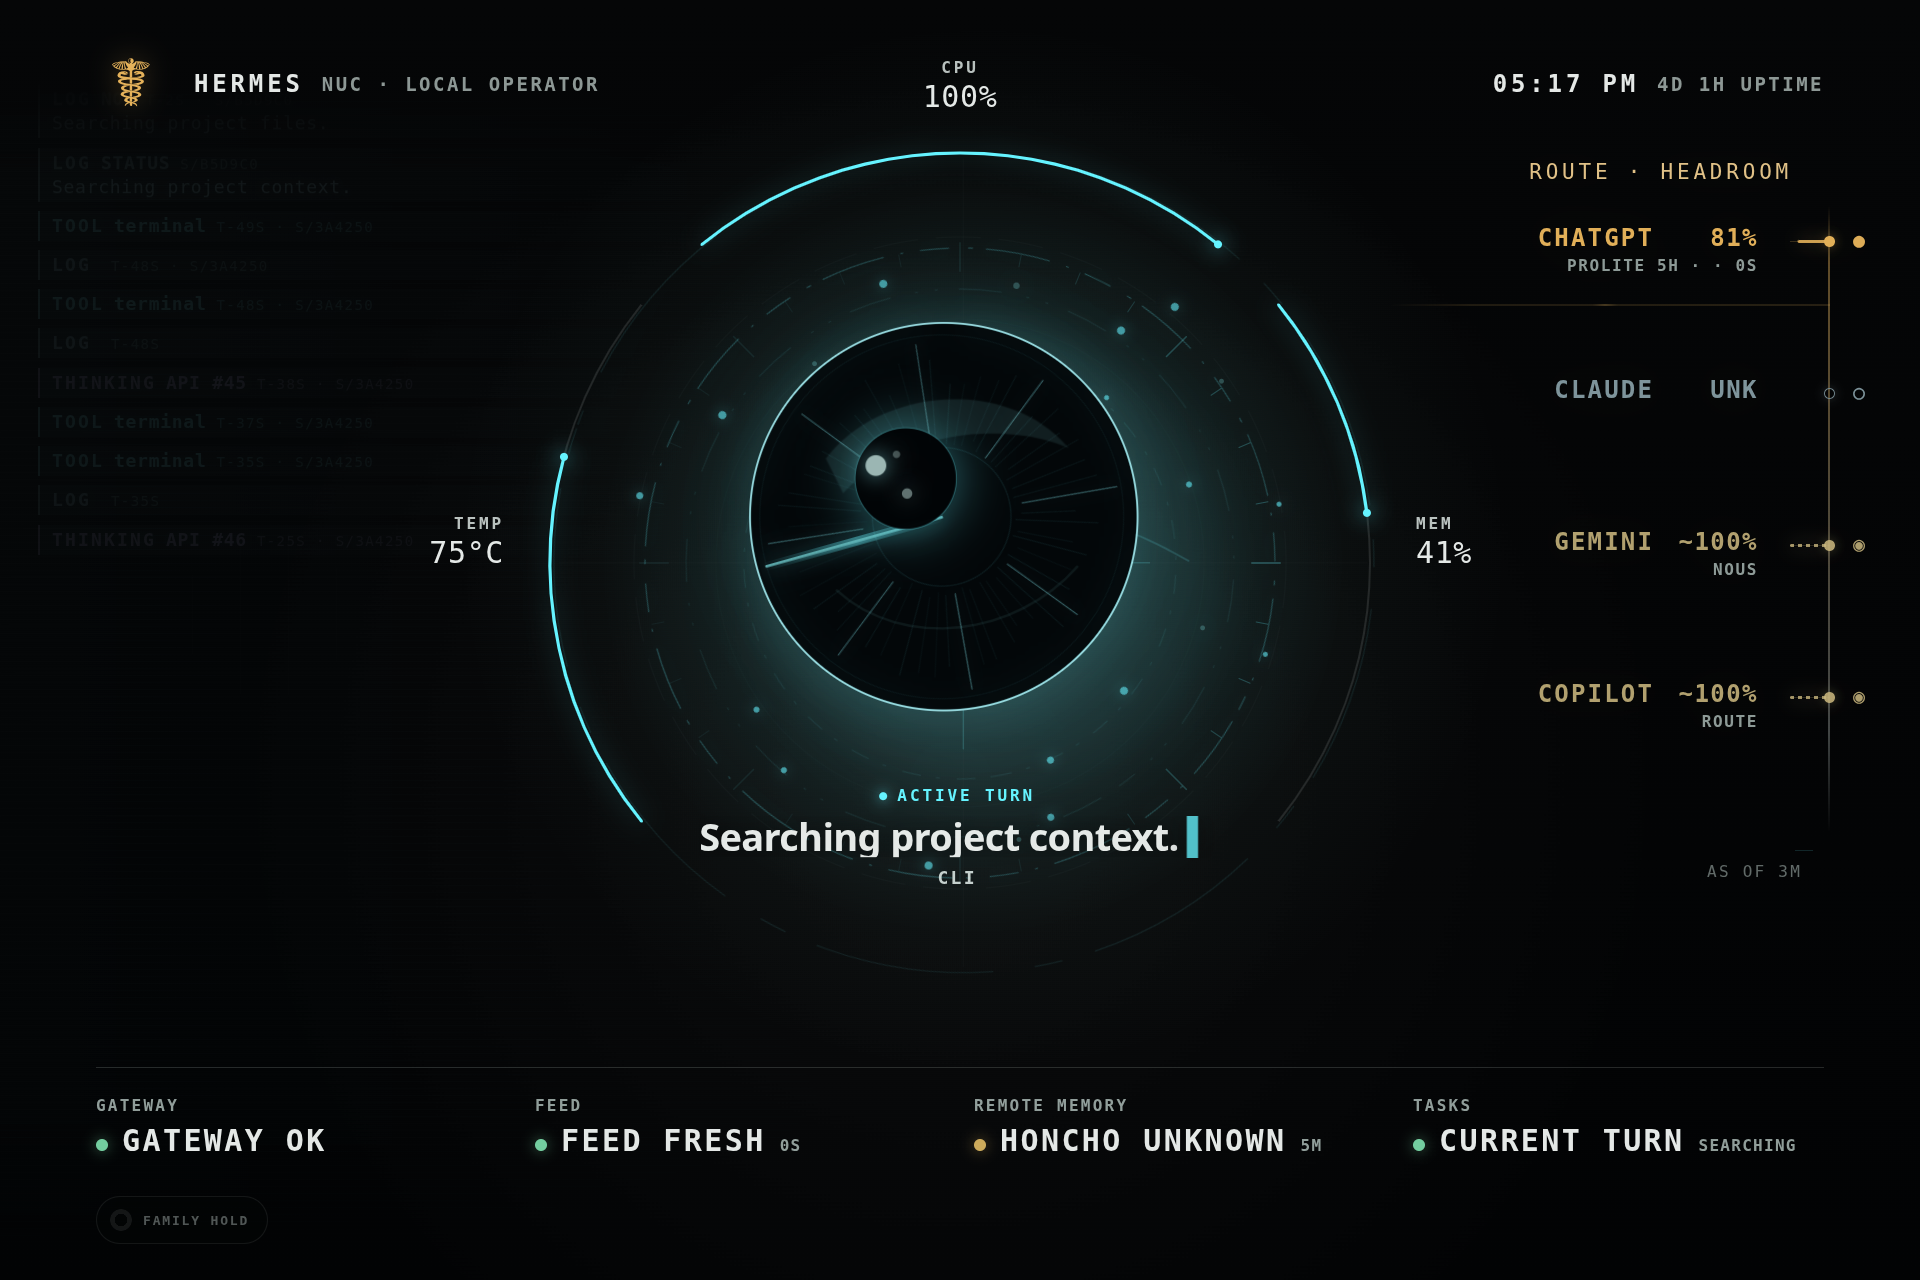
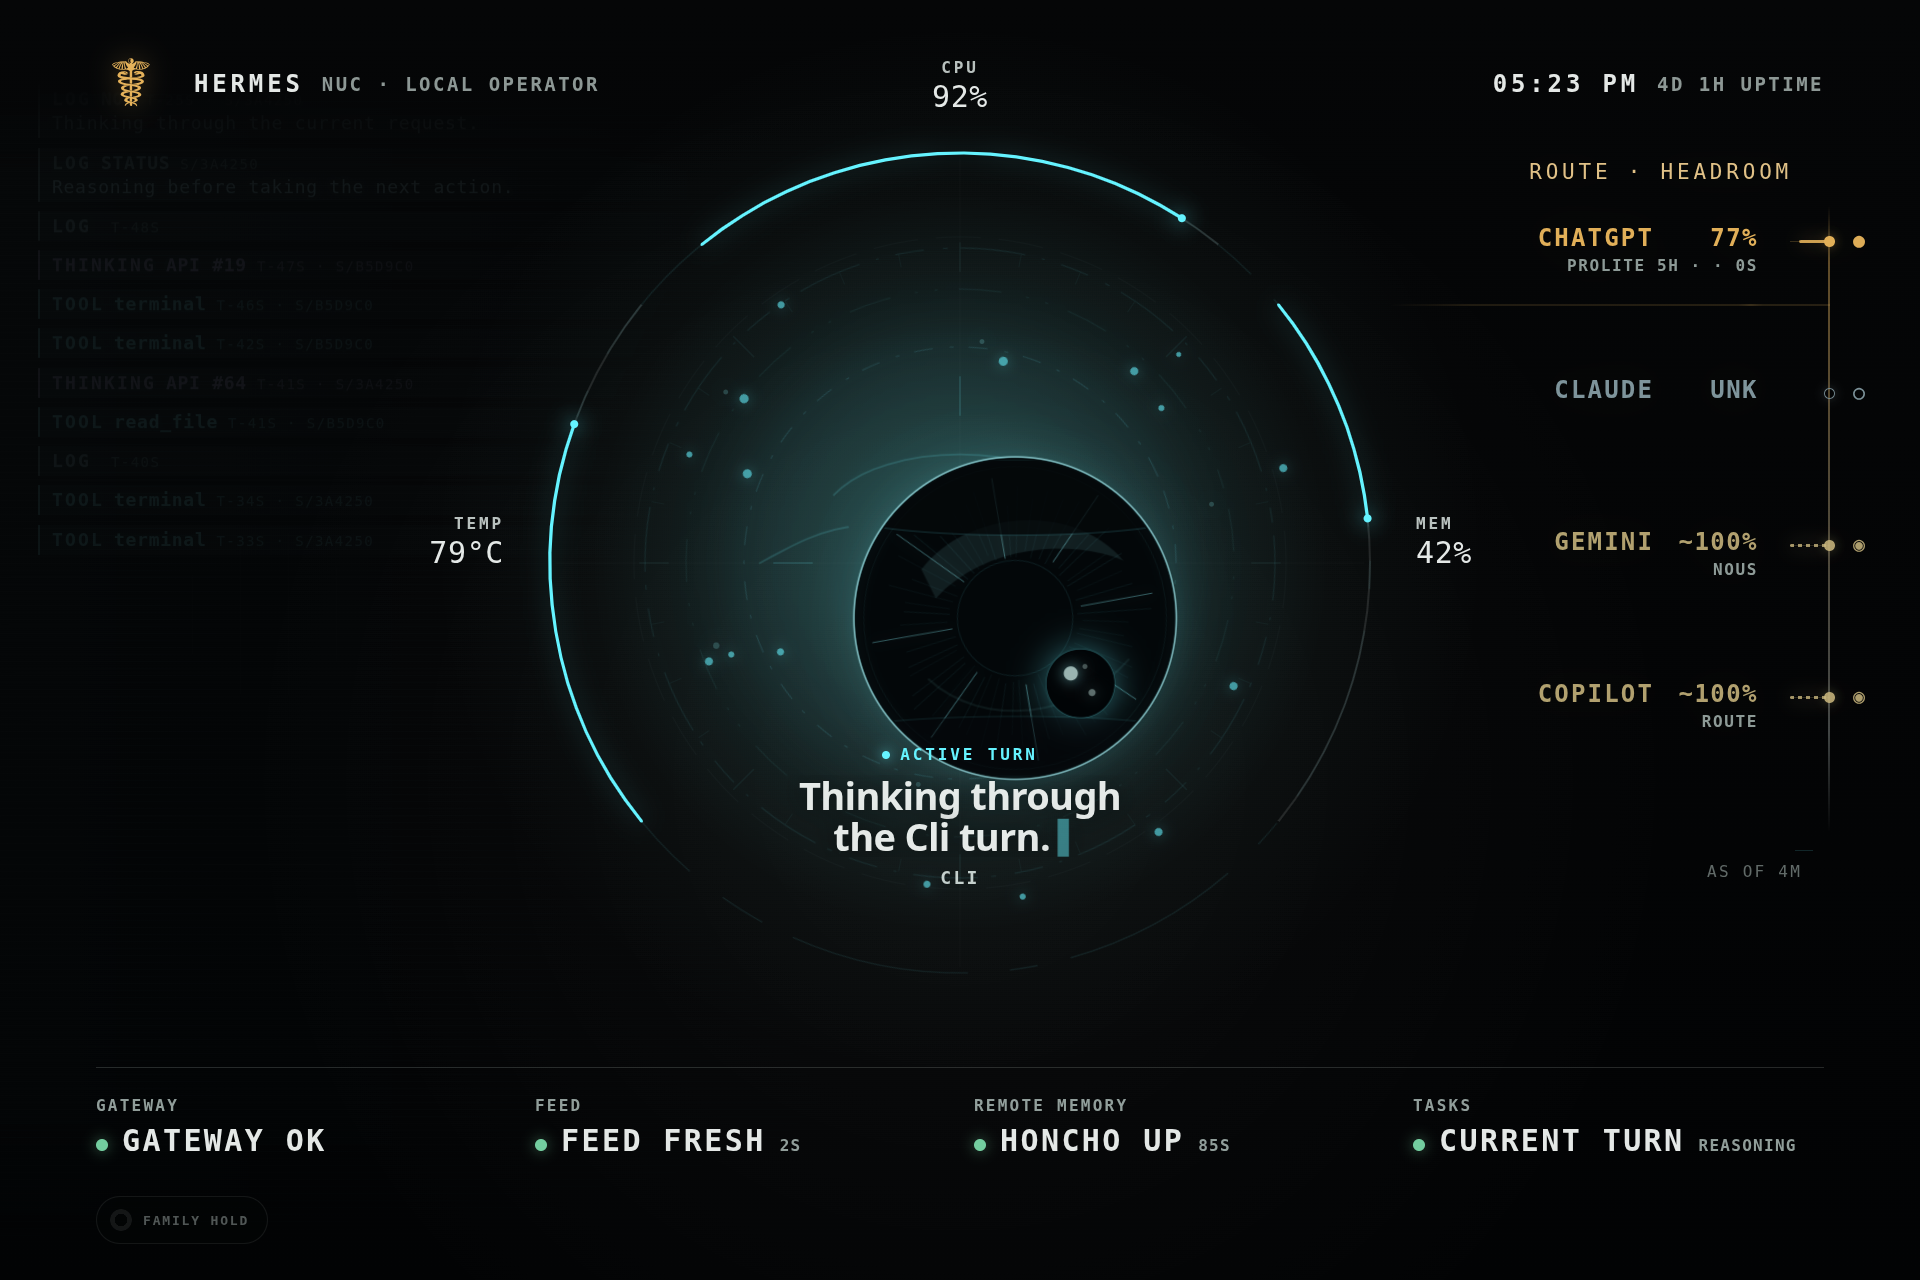
[verified] fix Honcho remote memory status

Changed region(s): [[0.375, 0.25, 0.625, 0.6875], [0.5938, 0.875, 0.6875, 0.9062], [0.4688, 0.0625, 0.5312, 0.0938]]

diff --git a/scripts/hermes_display_server.py b/scripts/hermes_display_server.py
@@ -442,13 +442,35 @@ def load_remote_memory_status() -> dict:
         age_seconds = None
 
     raw_state = str(raw.get("last") or "unknown").lower()
+    raw_metric = raw.get("last_metric")
+    metric: dict = raw_metric if isinstance(raw_metric, dict) else {}
+    api_health_ok = metric.get("api_health_ok")
+    raw_containers = metric.get("containers")
+    containers: dict = raw_containers if isinstance(raw_containers, dict) else {}
+    core_containers_up = None
+    if containers:
+        core_containers_up = all(
+            "up" in str(containers.get(name, "")).lower()
+            for name in (
+                "honcho-selfhost-api-1",
+                "honcho-selfhost-database-1",
+                "honcho-selfhost-redis-1",
+            )
+        )
     if age_seconds is None or age_seconds > 20 * 60:
         state = "stale"
         status = "STALE"
+    elif api_health_ok is True and core_containers_up is not False:
+        # The watchdog's top-level `last` can be "degraded" for non-outage
+        # warnings, for example deriver warning volume. The display's remote
+        # memory cell is meant to answer whether Honcho memory is reachable, so
+        # prefer the concrete API/container health fields when present.
+        state = "ok"
+        status = "UP"
     elif raw_state == "up":
         state = "ok"
         status = "UP"
-    elif raw_state == "down":
+    elif raw_state == "down" or api_health_ok is False:
         state = "down"
         status = "DOWN"
     else:
@@ -464,9 +486,9 @@ def load_remote_memory_status() -> dict:
         "state": state,
         "status": status,
         "age_seconds": age_seconds,
-        "api": safe_field(raw.get("api")),
-        "service": safe_field(raw.get("service")),
-        "app": safe_field(raw.get("app")),
+        "api": safe_field(raw.get("api") or ("health ok" if api_health_ok is True else "")),
+        "service": safe_field(raw.get("service") or ("containers ok" if core_containers_up is True else "")),
+        "app": safe_field(raw.get("app") or "; ".join(str(w) for w in (raw.get("warnings") or [])[:2])),
     }
 
 

diff --git a/tests/python/test_server_longevity.py b/tests/python/test_server_longevity.py
@@ -65,3 +65,41 @@ def test_reserve_entertainment_budget_is_bounded(monkeypatch, tmp_path: Path) ->
 
     usage = json.loads(usage_path.read_text(encoding="utf-8"))
     assert usage["line_requests"] == 2
+
+
+def test_remote_memory_prefers_api_health_over_degraded_warning_state(monkeypatch, tmp_path: Path) -> None:
+    health_path = tmp_path / "honcho-health-watch.json"
+    health_path.write_text(json.dumps({
+        "last": "degraded",
+        "last_metric": {
+            "api_health_ok": True,
+            "containers": {
+                "honcho-selfhost-api-1": "Up 29 hours (healthy)",
+                "honcho-selfhost-database-1": "Up 2 days (healthy)",
+                "honcho-selfhost-redis-1": "Up 2 days (healthy)",
+            },
+        },
+        "warnings": ["deriver zero-observation warnings high: 16/15m"],
+    }), encoding="utf-8")
+    monkeypatch.setattr(server, "HONCHO_HEALTH_PATH", health_path)
+
+    status = server.load_remote_memory_status()
+
+    assert status["state"] == "ok"
+    assert status["status"] == "UP"
+    assert status["api"] == "health ok"
+    assert status["service"] == "containers ok"
+
+
+def test_remote_memory_down_api_overrides_watchdog_label(monkeypatch, tmp_path: Path) -> None:
+    health_path = tmp_path / "honcho-health-watch.json"
+    health_path.write_text(json.dumps({
+        "last": "degraded",
+        "last_metric": {"api_health_ok": False},
+    }), encoding="utf-8")
+    monkeypatch.setattr(server, "HONCHO_HEALTH_PATH", health_path)
+
+    status = server.load_remote_memory_status()
+
+    assert status["state"] == "down"
+    assert status["status"] == "DOWN"
